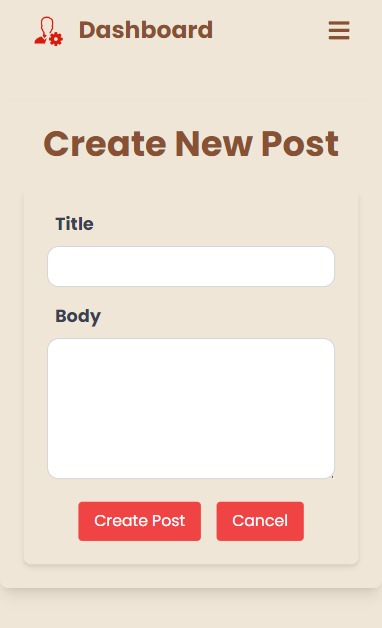
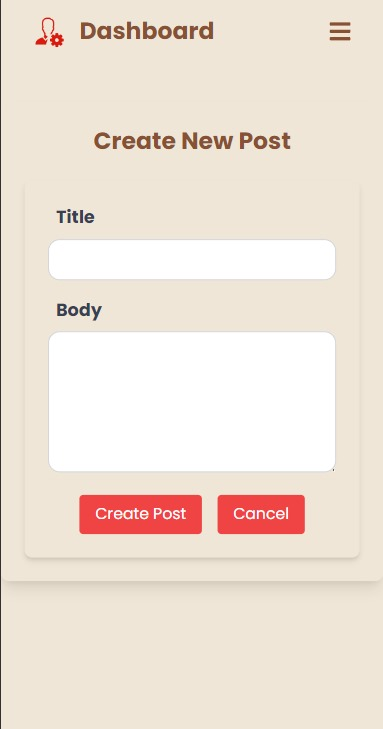
Complete Version of React Intern Task Project

diff --git a/src/components/CreateNewPost.js b/src/components/CreateNewPost.js
@@ -34,7 +34,7 @@ const CreateNewPost = () => {
 
     return (
         <div className="container mx-auto mt-10 p-6  rounded-lg shadow-lg md:w-2/6">
-            <h1 className="text-4xl font-bold mb-6 ">Create New Post</h1>
+            <h1 className="text-2xl font-bold mb-6 ">Create New Post</h1>
             {successMessage && (
                 <div className="border-l-4 bg-alertBg border-green-500 text-green-700 p-4 mb-4" role="alert">
                     <p className="bg-alertBg">{successMessage}</p>

diff --git a/src/components/PostUpdate.js b/src/components/PostUpdate.js
@@ -52,7 +52,7 @@ const PostUpdate = () => {
 
   return (
     <div className="container mx-auto mt-10 p-6  rounded-lg shadow-lg md:w-2/6">
-      <h1 className="text-4xl font-bold mb-6">Update Post</h1>
+      <h1 className="text-2xl font-bold mb-6">Update Post</h1>
       {successMessage && (
         <div className="bg-alertBg border-l-4 border-green-500 text-green-700 p-4 mb-4" role="alert">
           <p className="bg-alertBg">{successMessage}</p>

diff --git a/src/components/PostDetail.js b/src/components/PostDetail.js
@@ -31,7 +31,7 @@ const PostDetail = () => {
 
   return (
     <div className="container mx-auto mt-10 p-6 rounded-lg shadow-lg md:w-2/6">
-      <h1 className="text-4xl font-bold mb-6">Post Details</h1>
+      <h1 className="text-2xl font-bold mb-6">Post Details</h1>
       <div className="p-6 rounded-lg shadow-md space-y-4">
         <div>
           <label className="block text-gray-700 text-lg text-left ml-2 font-bold mb-2">ID</label>
